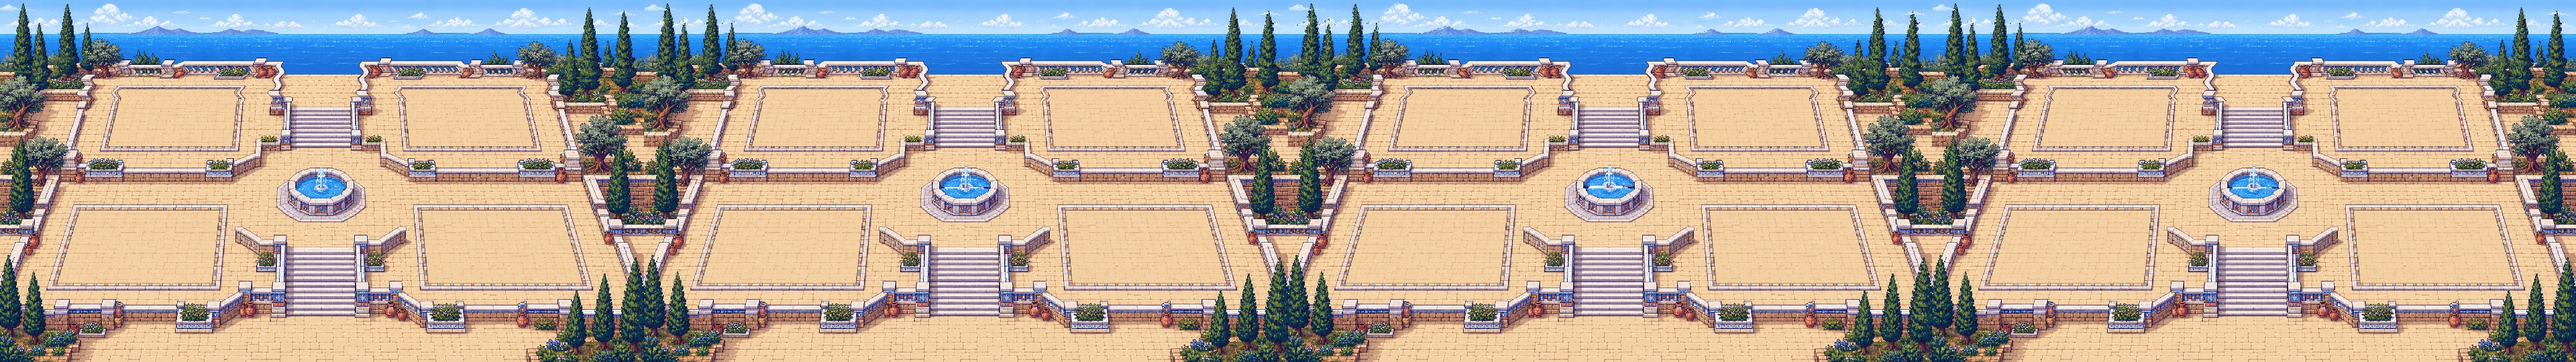
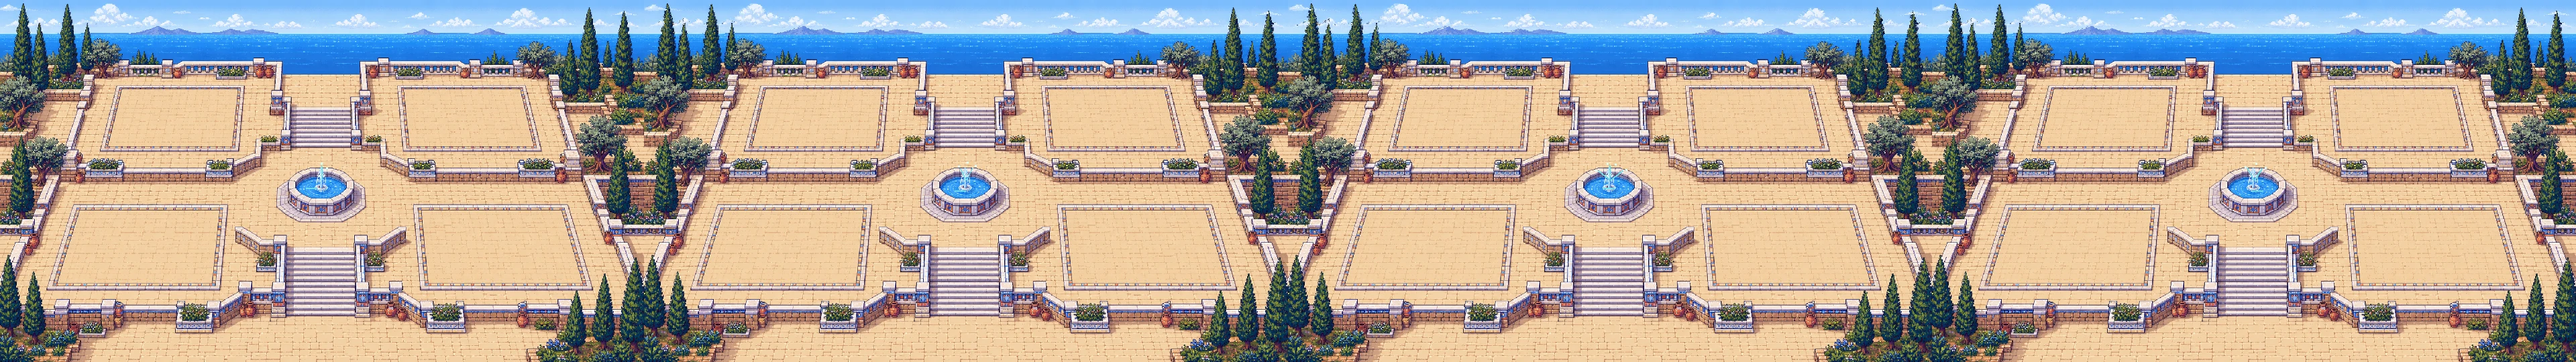
Anchor fountain and terrace animation

diff --git a/plugin.js b/plugin.js
@@ -1281,7 +1281,7 @@ function loadPolisArtV4() {
     const filePath = name => `${root}\\polis-of-hermes\\assets\\${name}`
     const files = {
       background: 'polis-terraces.webp',
-      environment: 'environment-animation.webp',
+      environment: 'environment-animation.webp', // v2: fixed terrace geometry, fixed-nozzle fountain spurts
       herald: 'building-herald.webp',
       blacksmith: 'building-blacksmith.webp',
       scholar: 'building-scholar.webp',

diff --git a/assets/process_environment_animation.py b/assets/process_environment_animation.py
@@ -9,7 +9,7 @@ changes rather than a single-image CSS/canvas transform.
 from pathlib import Path
 
 import numpy as np
-from PIL import Image
+from PIL import Image, ImageDraw
 from scipy.ndimage import distance_transform_edt
 
 ROOT = Path(__file__).resolve().parent
@@ -80,41 +80,37 @@ def main() -> None:
     side_groves = ((xx < 155) | (xx > 805)) & (yy < 505)
     foliage_mask = side_groves & (g > 52) & (g > r * 1.03) & (g > b * .82) & ((g - np.minimum(r, b)) > 12)
 
-    # Fountain water is split into jet and basin so the jet lifts while the
-    # basin ripples sideways.
-    fountain_box = (xx > 405) & (xx < 555) & (yy > 225) & (yy < 325)
+    # Fountain masonry, floor tiles, rails, and blue decorative plaques are all
+    # deliberately excluded from masking. The approved fountain stays anchored;
+    # only new water strokes are added per frame below.
     water_color = (b > 115) & (b > r * 1.08) & (g > r * 1.03)
-    fountain_mask = fountain_box & water_color
-    fountain_jet = fountain_mask & (yy < 281)
-    fountain_basin = fountain_mask & ~fountain_jet
+    sea_water = (yy >= 86) & (yy <= 140) & water_color
 
-    removable = cloud_mask | foliage_mask | fountain_mask
+    removable = cloud_mask | foliage_mask
     static_rgb = nearest_fill(rgb, removable)
     static = np.dstack([static_rgb, np.full((FRAME_H, FRAME_W), 255, dtype=np.uint8)])
 
     cloud_layer = alpha_layer(rgb, cloud_mask)
     foliage_layer = alpha_layer(rgb, foliage_mask)
-    jet_layer = alpha_layer(rgb, fountain_jet)
-    basin_layer = alpha_layer(rgb, fountain_basin)
 
     frames = []
     cloud_steps = (0, 3, 6, 3)
     canopy_steps = (0, 1, 2, 1)
-    jet_steps = (0, -2, -4, -2)
     phases = (0.0, np.pi / 2, np.pi, 3 * np.pi / 2)
 
     for frame_index, phase in enumerate(phases):
         frame = static.copy()
 
-        # Aegean water: real stepped frame changes made from the original sea
-        # texture, with independently moving scanline bands and glint pulses.
-        sea = source[82:151].copy()
-        for row in range(sea.shape[0]):
-            shift = int(round(np.sin(row * .31 + phase) * 3 + np.sin(row * .09 - phase) * 2))
-            sea[row] = np.roll(sea[row], shift, axis=0)
-            if (row + frame_index * 5) % 13 == 0:
-                sea[row, :, :3] = np.clip(sea[row, :, :3].astype(np.int16) + 5, 0, 255)
-        frame[82:151] = sea
+        # Aegean water: keep every horizon, terrace, floor and rail pixel fixed.
+        # Only small highlights inside pixels already classified as sea water
+        # change from frame to frame.
+        for band in range(9):
+            y = 91 + ((band * 7 + frame_index * 3) % 45)
+            x0 = (band * 109 + frame_index * 17) % 930
+            length = 9 + (band % 4) * 4
+            for x in range(x0, min(960, x0 + length)):
+                if sea_water[y, x]:
+                    frame[y, x, :3] = np.clip(frame[y, x, :3].astype(np.int16) + (16, 20, 17), 0, 255)
 
         frame = over(frame, shift_xy(cloud_layer, dx=cloud_steps[frame_index]))
 
@@ -125,13 +121,35 @@ def main() -> None:
         ])
         frame = over(frame, shift_rows(foliage_layer, canopy_rows))
 
-        frame = over(frame, shift_xy(jet_layer, dx=(frame_index % 2), dy=jet_steps[frame_index]))
-        basin_rows = np.array([
-            int(round(np.sin(y * .55 + phase) * 2)) if 260 <= y <= 325 else 0
-            for y in range(FRAME_H)
-        ])
-        frame = over(frame, shift_rows(basin_layer, basin_rows))
-        frames.append(Image.fromarray(frame, "RGBA"))
+        # Fixed-nozzle fountain cycle. The fountain and surrounding terrace are
+        # copied unchanged from the source; only new stream branches, droplets,
+        # and basin glints vary. Nothing is translated vertically.
+        frame_image = Image.fromarray(frame, "RGBA")
+        draw = ImageDraw.Draw(frame_image)
+        bright = (218, 255, 249, 235)
+        cyan = (111, 222, 232, 225)
+        spurt_lines = (
+            [((480, 268), (480, 247))],
+            [((480, 268), (472, 251)), ((481, 268), (490, 250))],
+            [((479, 268), (463, 255)), ((481, 268), (499, 254)), ((480, 266), (480, 246))],
+            [((480, 268), (470, 250)), ((481, 268), (492, 251))],
+        )[frame_index]
+        droplets = (
+            [(478, 243), (486, 250)],
+            [(468, 247), (493, 246), (481, 241)],
+            [(458, 253), (503, 252), (475, 243), (487, 244)],
+            [(466, 248), (496, 249), (482, 243)],
+        )[frame_index]
+        for start, end in spurt_lines:
+            draw.line((start, end), fill=cyan, width=2)
+            draw.point(end, fill=bright)
+        for x, y in droplets:
+            draw.rectangle((x, y, x + 2, y + 2), fill=bright)
+        ripple_y = 280 + (frame_index % 2) * 4
+        ripple_x = 456 + frame_index * 7
+        draw.line((ripple_x, ripple_y, ripple_x + 16, ripple_y), fill=cyan, width=2)
+        frame = np.asarray(frame_image, dtype=np.uint8).copy()
+        frames.append(frame_image)
 
     atlas = Image.new("RGBA", (FRAME_W * FRAME_COUNT, FRAME_H))
     for index, frame in enumerate(frames):
